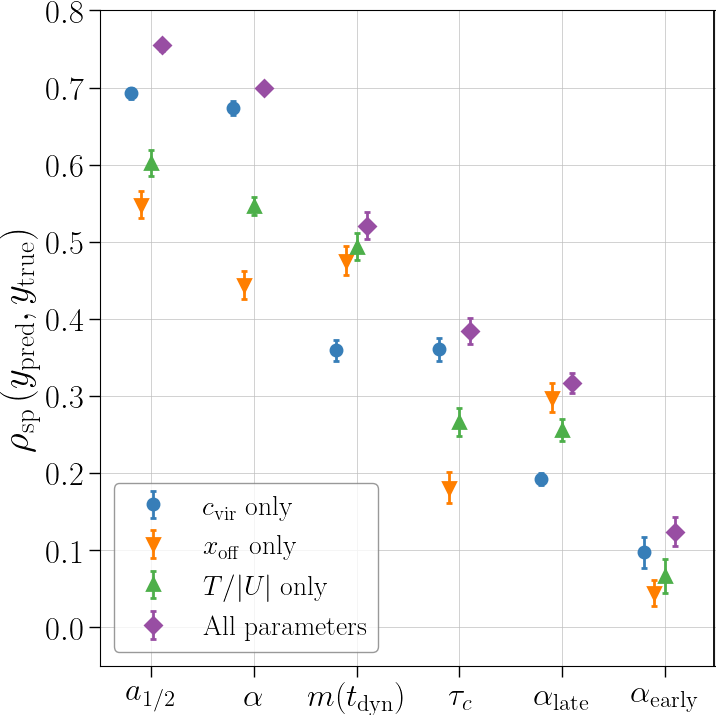
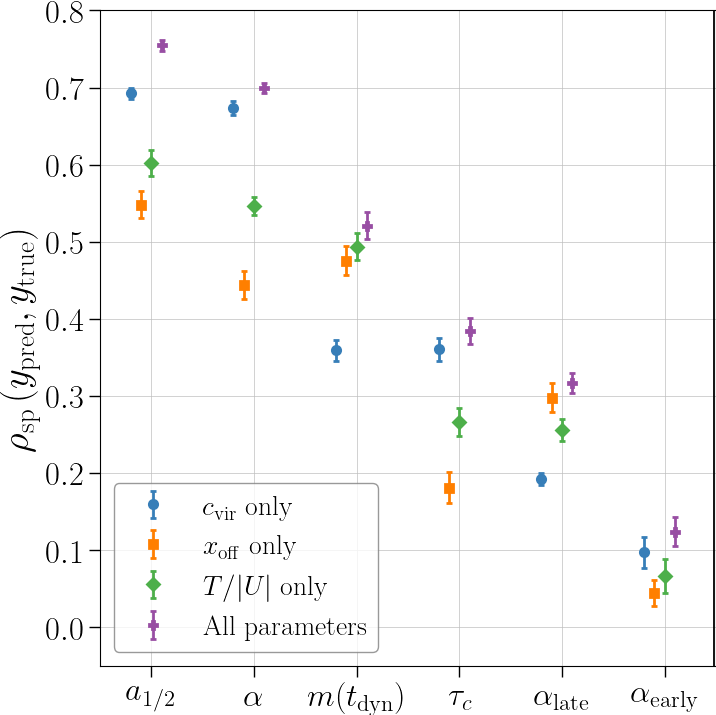
change marker style

diff --git a/relaxed/plotting.py b/relaxed/plotting.py
@@ -14,7 +14,7 @@ cb_colors_dict = {
     "gray": "#999999",
 }
 CB_COLORS = list(cb_colors_dict.values())
-MARKS = ["o", "v", "^", "D", "*"]
+MARKS = ["o", "s", "D", "P", "X"]
 
 LATEX_PARAMS = {
     "cvir": r"$c_{\rm vir}$",
@@ -55,7 +55,7 @@ def set_rc(
     minor_ticksize=5,
     major_tickwidth=1.0,
     minor_tickwidth=0.8,
-    ms=8,
+    ms=6,
     mew=2.0,
     lw=2.0,
     capsize=2.0,
